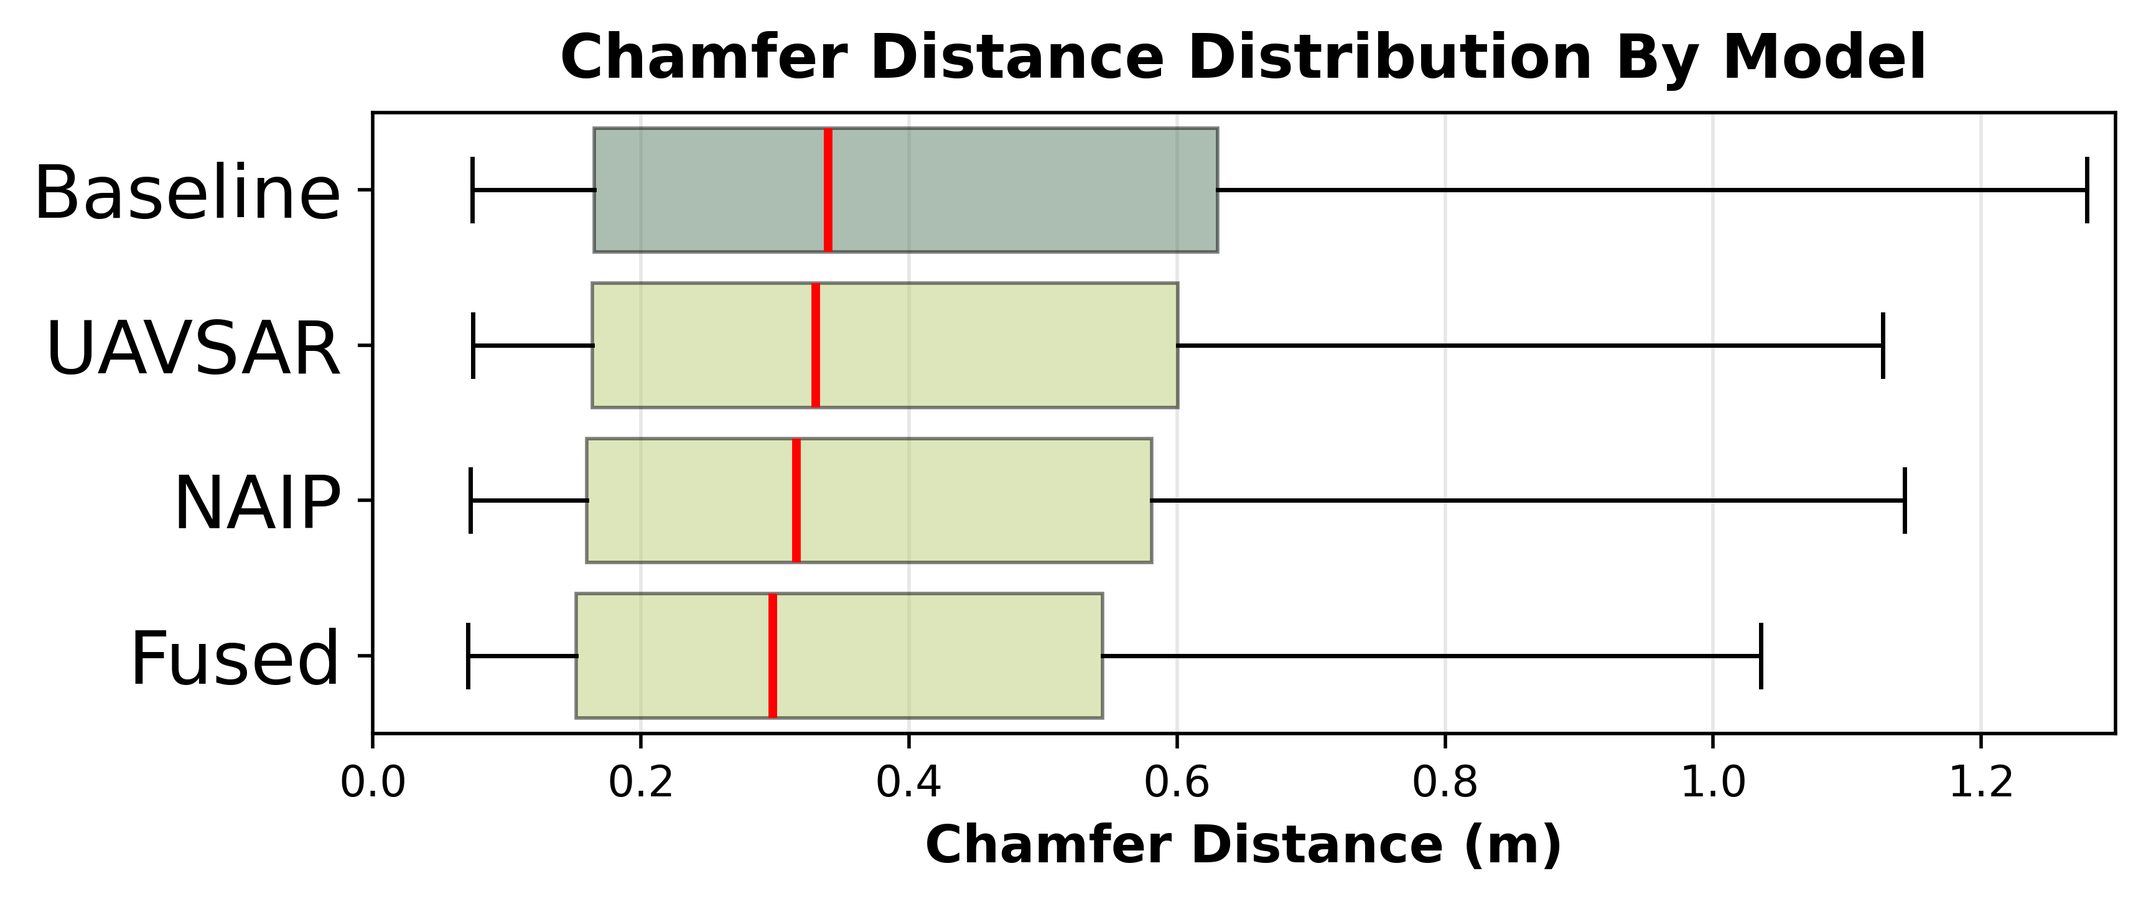
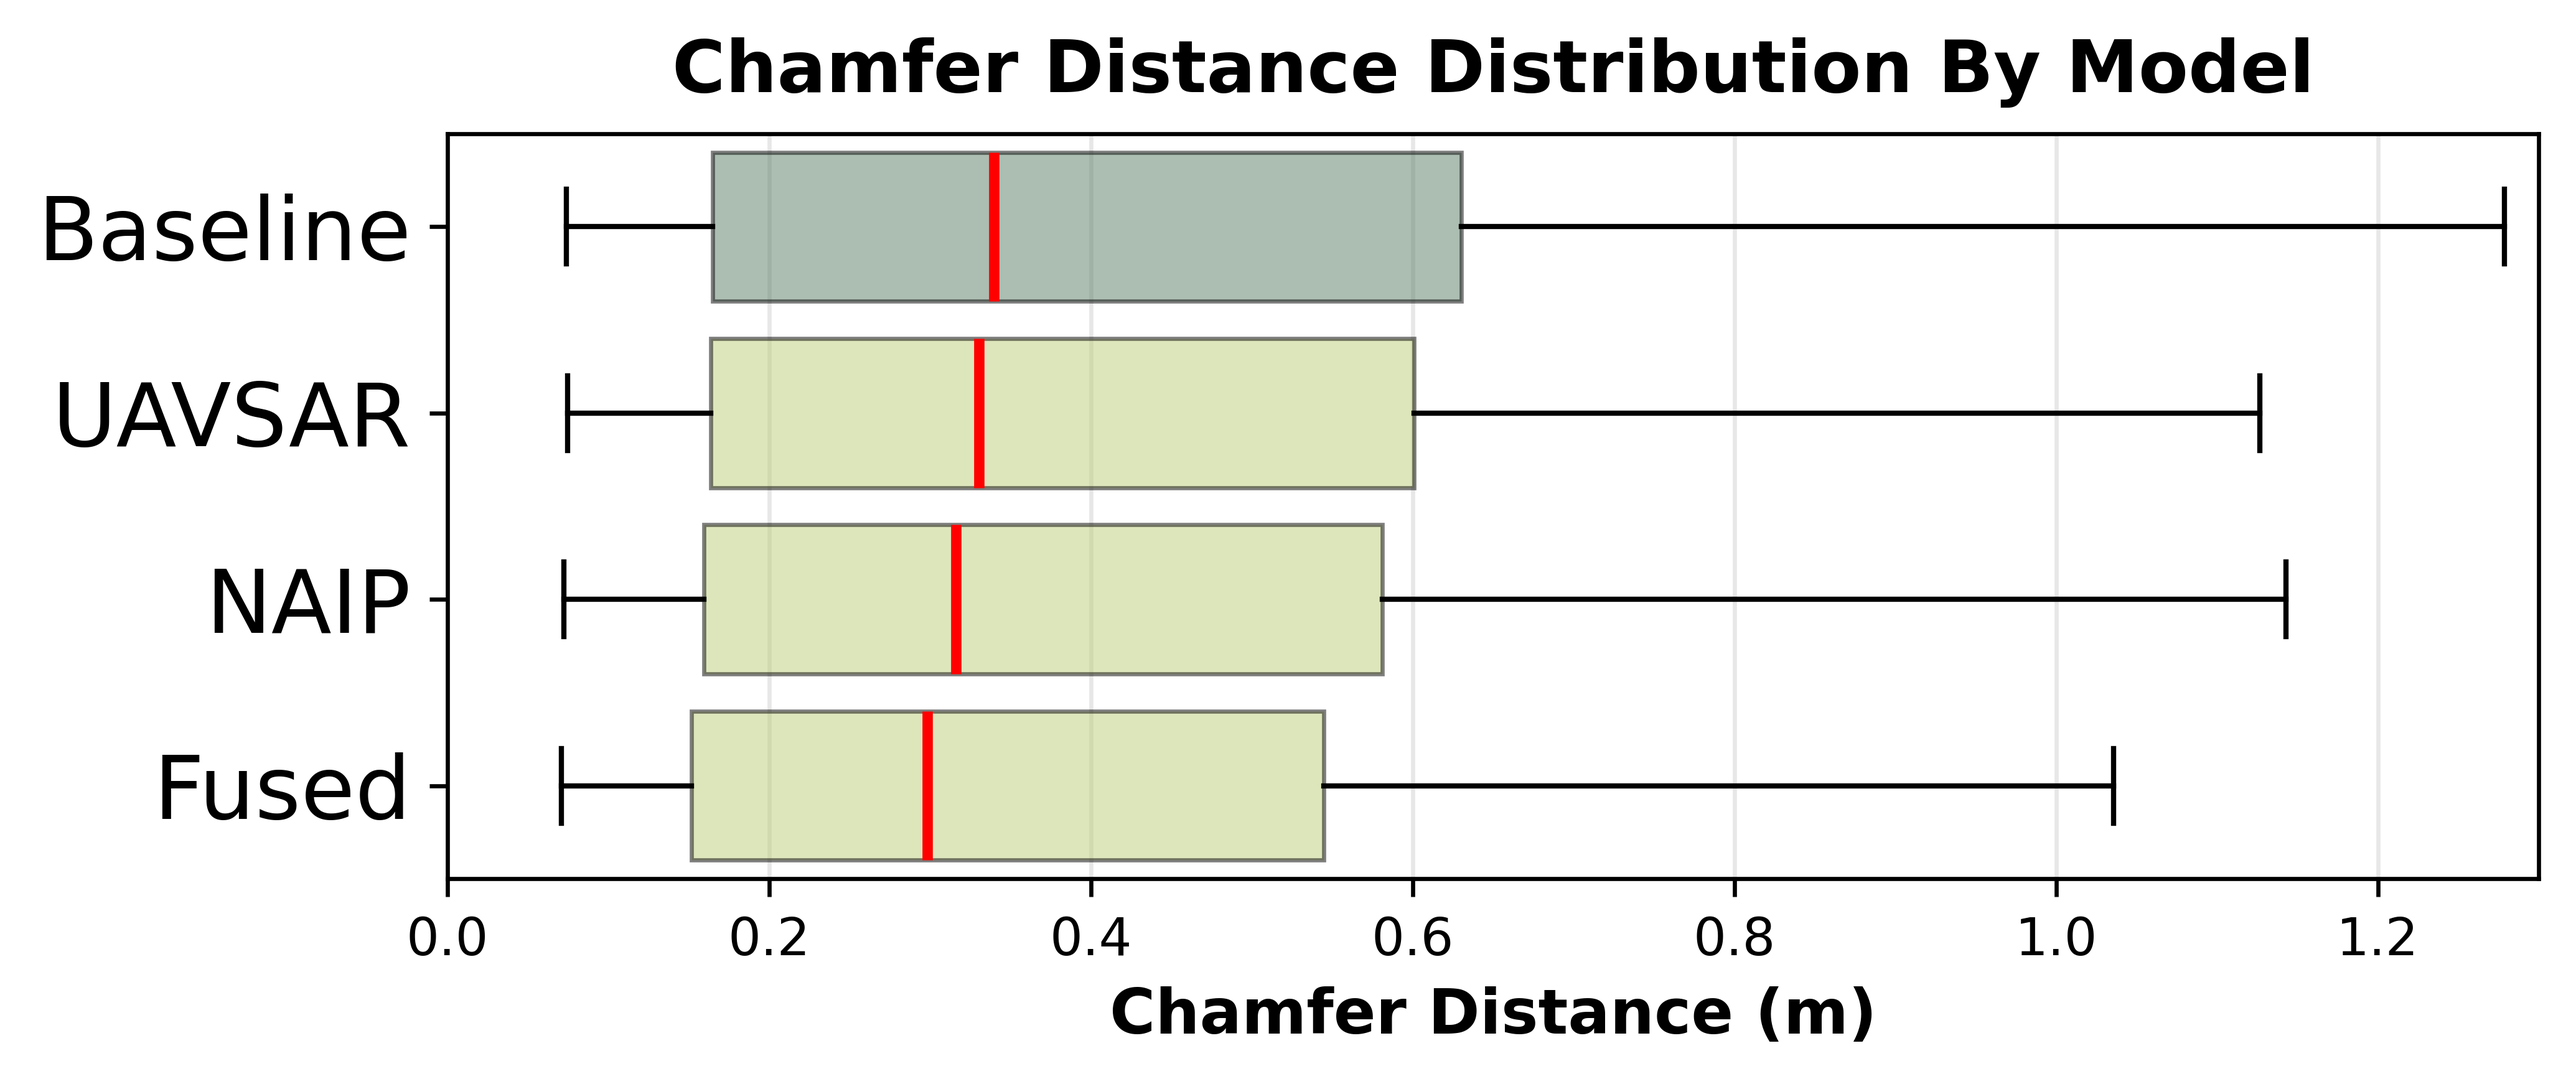
change figures to 600 dpi

diff --git a/src/evaluation/manuscript_figures.py b/src/evaluation/manuscript_figures.py
@@ -1563,7 +1563,7 @@ if __name__ == "__main__":
         single_veg_loss_example, 
         "manuscript/figures/single_veg_loss_example.png",
         (0.06, 0.0, 0.94, .90),  # ratios: (left, top, right, bottom)
-        dpi=500
+        dpi=600
     )
 
     model_output_example = visualize_tile_point_clouds(
@@ -1584,7 +1584,7 @@ if __name__ == "__main__":
         model_output_example, 
         "manuscript/figures/model_output_example.png",
         (0.06, 0.0, 0.94, .89),  # ratios: (left, top, right, bottom)
-        dpi=500
+        dpi=600
     )
 
     veg_growth = ['tile_21167', 'tile_17898', 'tile_34378', 'tile_27176', 'tile_22627', 'tile_31490', 'tile_16730', 'tile_24896', 'tile_21162', 'tile_33122', 'tile_16869', 'tile_20241']
@@ -1628,7 +1628,7 @@ if __name__ == "__main__":
         veg_growth_8x, 
         "manuscript/figures/veg_growth_8x.png",
         (0.03, 0.0, 0.97, 1),  # ratios: (left, top, right, bottom)
-        dpi=500
+        dpi=600
     )
 
 
@@ -1673,7 +1673,7 @@ if __name__ == "__main__":
         veg_growth2_8x, 
         "manuscript/figures/veg_growth2_8x.png",
         (0.03, 0.0, 0.97, 1),  # ratios: (left, top, right, bottom)
-        dpi=500
+        dpi=600
     )
 
 
@@ -1719,7 +1719,7 @@ if __name__ == "__main__":
         veg_loss_2x, 
         "manuscript/figures/veg_loss_2x.png",
         (0.045, 0.0, 0.955, .98),  # ratios: (left, top, right, bottom)
-        dpi=500
+        dpi=600
     )
 
 
@@ -1807,7 +1807,7 @@ if __name__ == "__main__":
         example_8x_v_2x, 
         "manuscript/figures/example_8x_v_2x.png",
         (0.04, 0.0, 0.96, .985),  # ratios: (left, top, right, bottom)
-        dpi=500
+        dpi=600
     )
 
     baseline_prediction_example = visualize_tiles_small_multiples(
@@ -1849,7 +1849,7 @@ if __name__ == "__main__":
         baseline_prediction_example, 
         "manuscript/figures/baseline_prediction_example.png",
         (0.04, 0.0, 0.96, .985),  # ratios: (left, top, right, bottom)
-        dpi=500
+        dpi=600
     )
 
     baseline_v_input_boxplot, _  = plot_boxplot_chamfer_distance(df,   model_order=['input','baseline'],
@@ -1861,7 +1861,7 @@ if __name__ == "__main__":
         baseline_v_input_boxplot, 
         "manuscript/figures/baseline_v_input_boxplot.png",
         (0.0, 0.0, 1, 1),  # ratios: (left, top, right, bottom)
-        dpi=500
+        dpi=600
     )
     
     
@@ -1874,7 +1874,7 @@ if __name__ == "__main__":
         boxplot_by_model, 
         "manuscript/figures/boxplot_by_model.png",
         (0.0, 0.0, 1, 1),  # ratios: (left, top, right, bottom)
-        dpi=500
+        dpi=600
     )
 
 
@@ -1884,7 +1884,7 @@ if __name__ == "__main__":
         error_vs_cnpy_chng, 
         "manuscript/figures/error_vs_cnpy_chng.png",
         (0.0, 0.0, 1, 1),  # ratios: (left, top, right, bottom)
-        dpi=500
+        dpi=600
     )
 
 
